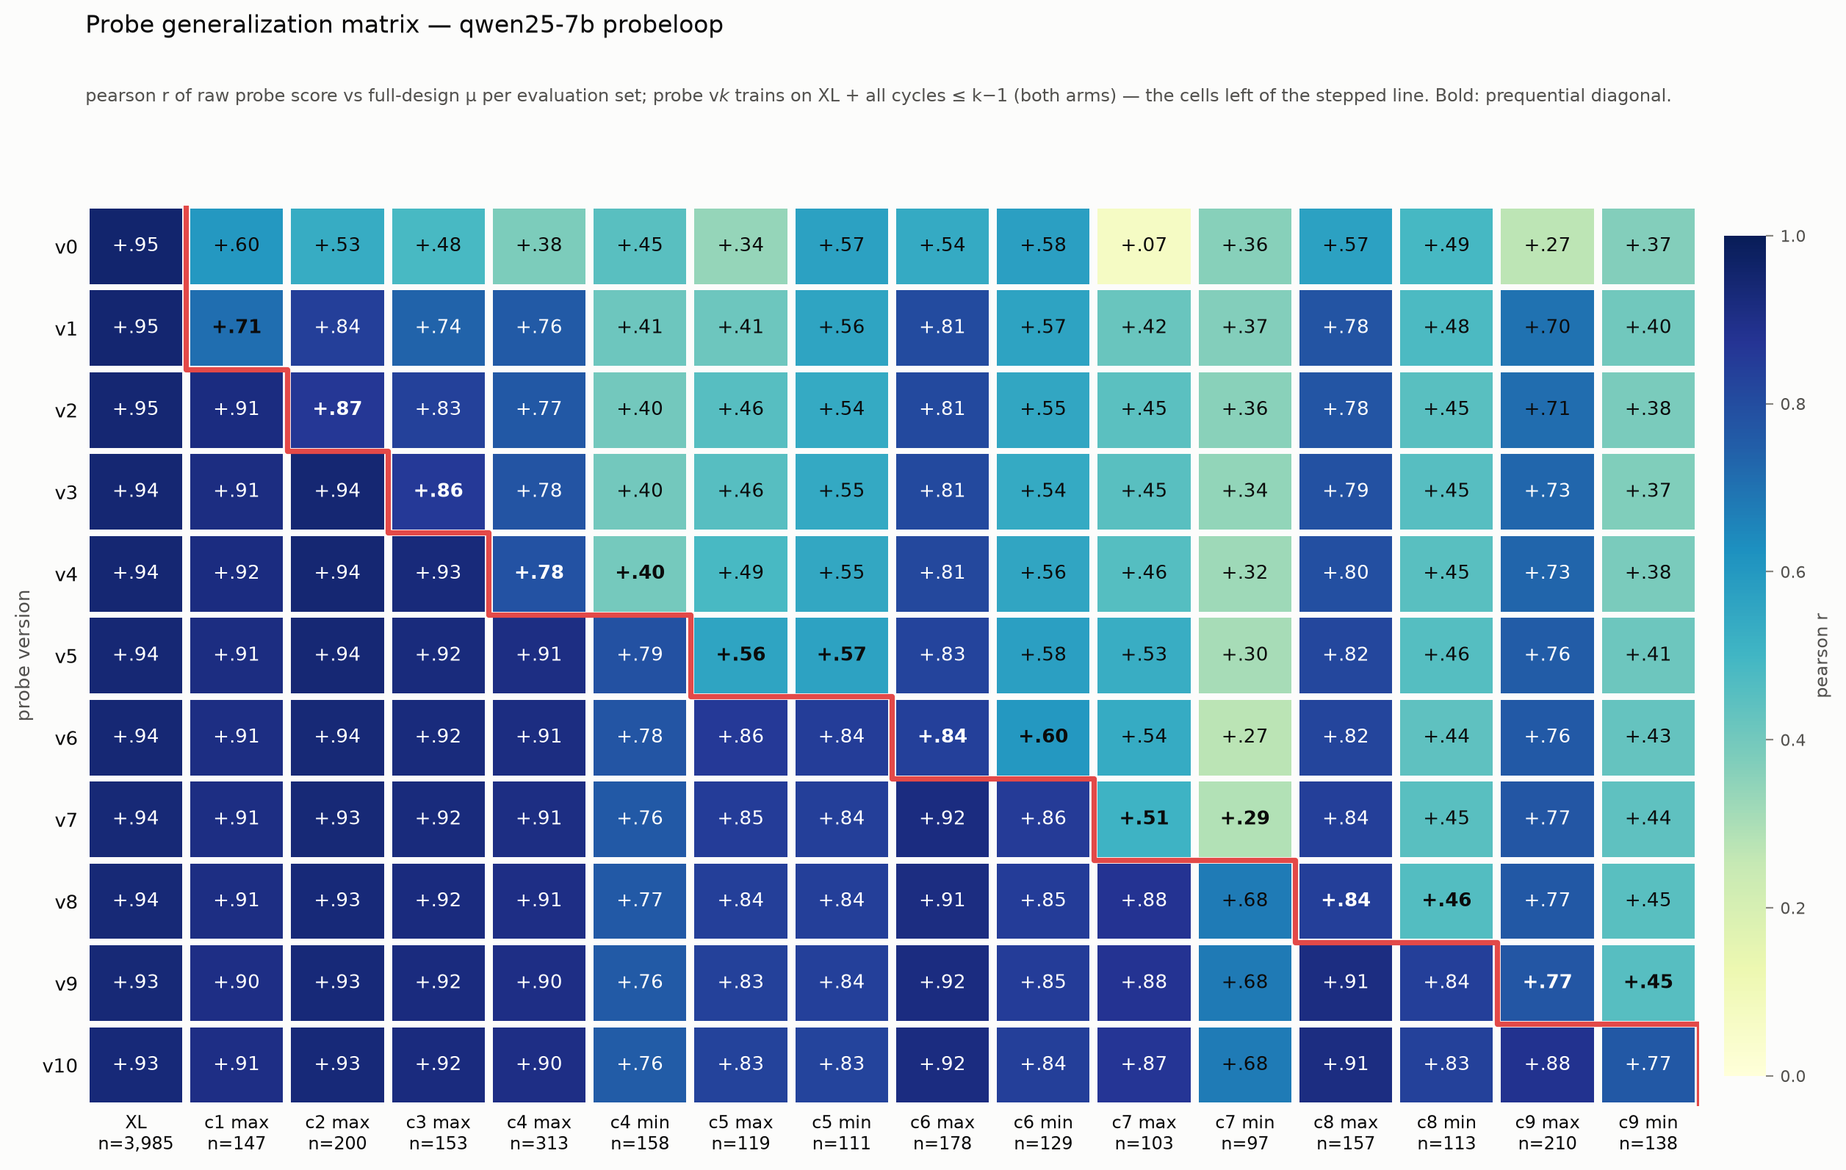
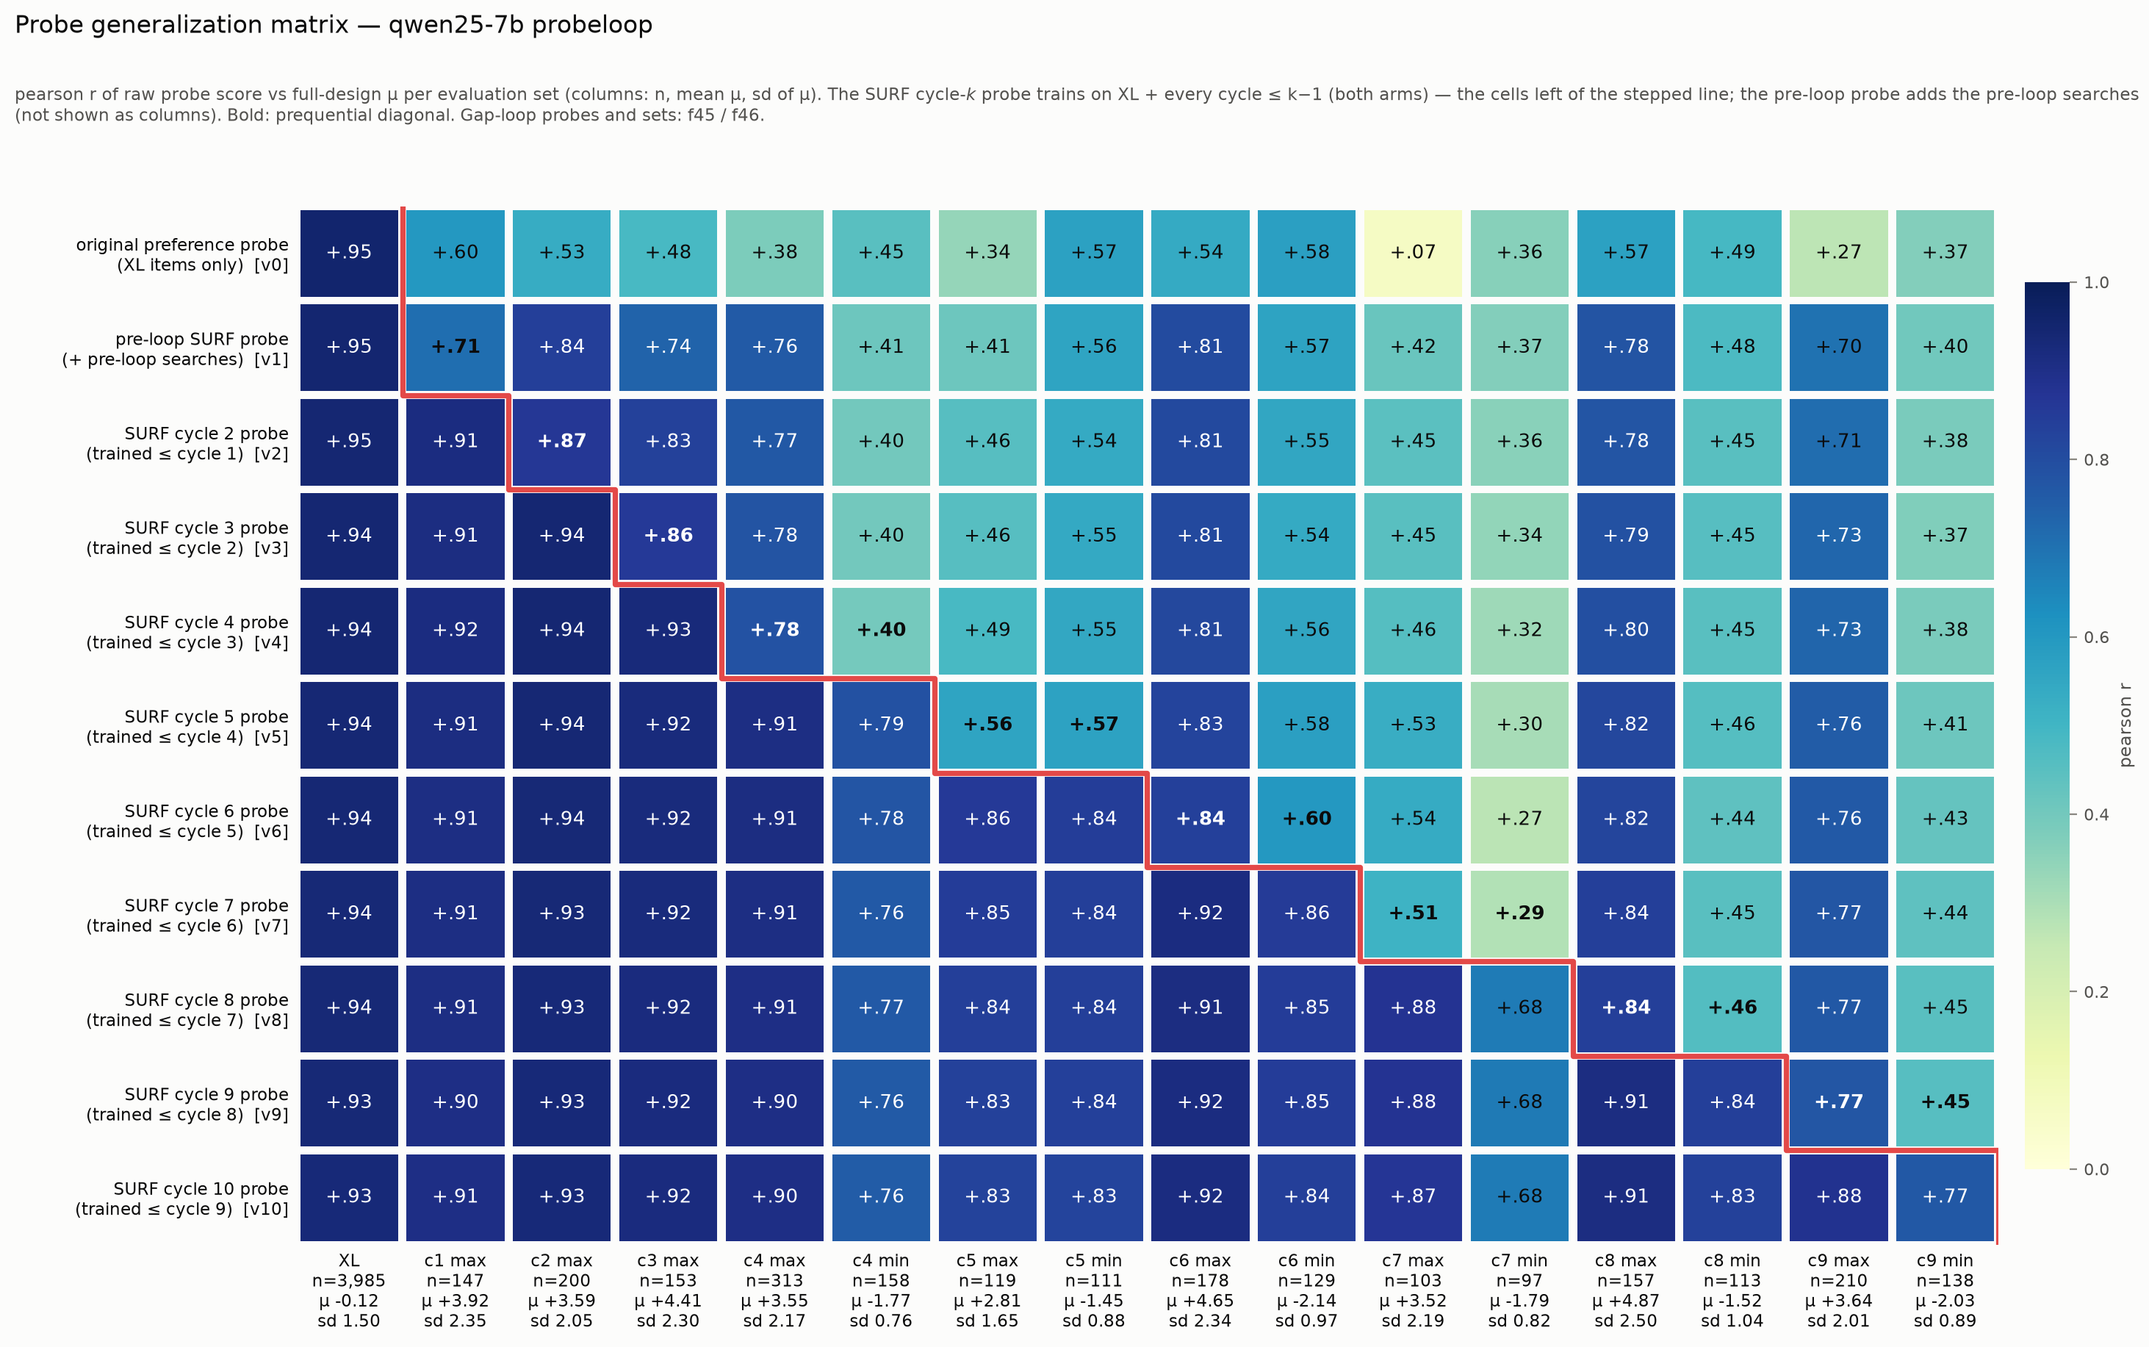
P1 figures: probe names (original / pre-loop / cycle-k / gap-k), n-mean-sd column labels; f40-f42 capped at hardening probes; f45/f46 add gap loop on layered mu; gaploop: referee rho guard
Claude-Session: https://claude.ai/code/session_0197TwgTZoAVvan8PdMtrSa9

diff --git a/p1/figures.py b/p1/figures.py
@@ -357,7 +357,8 @@ def main():
               f32_size_density, f33_size_structure, f34_surf_confirm,
               f35_xl_plus_surf, f36_swap_chosen, f37_effort_panels,
               f40_probe_matrix, f41_probe_matrix_pooled, f42_probe_arm_vs_pooled,
-              f43_anchor_ladder, f44_gap_matrix):
+              f43_anchor_ladder, f44_gap_matrix, f45_probe_matrix_with_gap,
+              f46_probe_matrix_pooled_with_gap):
         f()
     if not args.core_only:
         for m in MODELS:
@@ -1454,14 +1455,37 @@ def f35_xl_plus_surf():
     save(fig, FIG / "f35_xl_plus_surf.png")
 
 
+def probe_label(v, short=False):
+    """Human-readable probe names. v0 = the original preference probe (XL only);
+    v1 = retrained on the pre-loop SURF discoveries (stated-preference, probe and
+    revealed-preference searches); v2..v10 = probe used in SURF hardening cycle v,
+    trained on cycles <= v-1; v11+ = gap-loop probes (trained on gap cycles <= v-11)."""
+    if v == 0:
+        return "original probe" if short else "original preference probe\n(XL items only)"
+    if v == 1:
+        return "pre-loop SURF probe" if short else "pre-loop SURF probe\n(+ pre-loop searches)"
+    if v <= 10:
+        return f"cycle {v} probe" if short else f"SURF cycle {v} probe\n(trained \u2264 cycle {v - 1})"
+    k = v - 10
+    return f"gap cycle {k} probe" if short else f"gap cycle {k} probe\n(trained \u2264 gap {k - 1})"
+
+
 def _probeloop_cycle(tag):
-    """'c10 max' / 'c4 max+min' -> 10 / 4 (XL has no cycle)."""
+    """'c10 max' / 'c4 max+min' -> 10 / 4; 'gap2 over' -> 12 (gap cycle k is the
+    (10+k)-th training increment). XL has no cycle."""
+    if tag.startswith("gap"):
+        return PROBELOOP_MAX_V + int(tag[3:].split()[0])
     return int(tag[1:].split()[0])
 
 
-def _probeloop_sets(m="qwen25-7b"):
-    """-> (n_cycles, [(tag, acts, mu)]) : XL then every cycle's max / min
-    discovery set that exists; acts are the [3, N, dim] working-layer caches."""
+PROBELOOP_MAX_V = 10   # last probe-hardening probe; v11+ are gap-loop probes (scripts/surf_gaploop.py)
+
+
+def _probeloop_sets(m="qwen25-7b", max_v=PROBELOOP_MAX_V, include_gap=False, layered=False):
+    """-> (n_probes, [(tag, acts, mu)]) : XL then every hardening cycle's max / min
+    discovery set (and, with include_gap, every gap cycle's over / under set);
+    layered overlays the layered-anchor re-measurement on hardening-cycle mu.
+    max_v=None: every probe_v*.pt present."""
     sys.path.insert(0, str(P1 / "scripts"))
     from surf_probeloop import out_dir, _ds_acts
     import torch
@@ -1470,24 +1494,39 @@ def _probeloop_sets(m="qwen25-7b"):
     sets = [("XL", torch.load(P1 / "results" / "stage1x" / m / "acts_xl.pt",
                               weights_only=False).float(),
              np.array([r["mu"] for r in xl_rows]))]
-    n_cycles = max(int(m_.group(1)) for f in d.glob("probe_v*.pt")
-                   for m_ in [re.match(r"probe_v(\d+)\.pt", f.name)] if m_)
-    for k in range(1, n_cycles + 1):
+    n_all = max(int(m_.group(1)) for f in d.glob("probe_v*.pt")
+                for m_ in [re.match(r"probe_v(\d+)\.pt", f.name)] if m_)
+    n_probes = n_all if max_v is None else min(max_v, n_all)
+    over = {}
+    if layered and (d / "remeasure_layered.jsonl").exists():
+        for line in (d / "remeasure_layered.jsonl").read_text().splitlines():
+            if line.strip():
+                r = json.loads(line)
+                over[r["text"].lower()] = r["mu_layered"]
+    for k in range(1, min(n_probes, PROBELOOP_MAX_V) + 1):
         for sfx, tag in (("", f"c{k} max"), ("_min", f"c{k} min")):
             f = d / f"discoveries_plc{k}{sfx}.json"
             if f.exists():
                 rows = load_json(f)
                 acts = _ds_acts(m, rows, d / f"acts_plc{k}{sfx}.pt")
-                sets.append((tag, acts, np.array([r["mu"] for r in rows])))
-    return n_cycles, sets
+                sets.append((tag, acts, np.array([over.get(r["text"].lower(), r["mu"]) for r in rows])))
+    if include_gap:
+        for k in range(1, n_all - PROBELOOP_MAX_V + 2):
+            for arm in ("over", "under"):
+                f = d / f"discoveries_gpl{k}_{arm}.json"
+                if f.exists():
+                    rows = load_json(f)
+                    acts = _ds_acts(m, rows, d / f"acts_gpl{k}_{arm}.pt")
+                    sets.append((f"gap{k} {arm}", acts, np.array([r["mu"] for r in rows])))
+    return n_probes, sets
 
 
-def _probeloop_matrix(sets=None, m="qwen25-7b"):
+def _probeloop_matrix(sets=None, m="qwen25-7b", max_v=PROBELOOP_MAX_V, **kw):
     """pearson r of every probe v0..v_n on every set -> (sets, n_v, M[n_v, n_sets])."""
-    n_cycles, base = _probeloop_sets(m)
+    n_probes, base = _probeloop_sets(m, max_v=max_v, **kw)
     from surf_probeloop import _load_probe, apply_probe
     sets = base if sets is None else sets
-    n_v = n_cycles + 1
+    n_v = n_probes + 1
     M = np.zeros((n_v, len(sets)))
     for v in range(n_v):
         pr = _load_probe(m, v)
@@ -1522,12 +1561,26 @@ def _probe_matrix_axes(ax, sets, n_v, M, cyc, cmap, fontsize):
     ax.set_xticks([j + .5 for j in range(len(tags))])
     ax.set_xticklabels([f"{t}\nn={len(mu):,}" for t, _, mu in sets], fontsize=8.6, color=INK)
     ax.set_yticks([i + .5 for i in range(n_v)])
-    ax.set_yticklabels([f"v{v}" for v in range(n_v)], fontsize=9.5, color=INK)
+    ax.set_yticklabels([f"v{v}  {probe_label(v)}" if False else probe_label(v) + f"  [v{v}]"
+                        for v in range(n_v)], fontsize=8.2, color=INK)
     ax.tick_params(length=0)
     for sp in ax.spines.values():
         sp.set_visible(False)
-    ax.set_ylabel("probe version", fontsize=9.5, color=INK2)
     return tags
+
+
+def f45_probe_matrix_with_gap():
+    """f40 extended with the gap-loop probes (rows) and gap-cycle discovery sets
+    (columns, over / under arms); hardening-cycle columns use the layered-anchor
+    re-measurement where available so every column is on one scale."""
+    _probe_matrix_figure(max_v=None, include_gap=True, layered=True, path="f45_probe_matrix_with_gap.png",
+                         title="Probe generalization matrix incl. gap loop \u2014 qwen25-7b (layered \u03bc)")
+
+
+def f46_probe_matrix_pooled_with_gap():
+    """f41 extended with the gap-loop probes and the gap cycles pooled (over+under)."""
+    _pooled_matrix_figure(max_v=None, include_gap=True, layered=True, path="f46_probe_matrix_pooled_with_gap.png",
+                          title="Pooled probe generalization matrix incl. gap loop \u2014 qwen25-7b (layered \u03bc)")
 
 
 def f40_probe_matrix():
@@ -1538,44 +1591,55 @@ def f40_probe_matrix():
     prequential diagonal (each probe on the discoveries searched against it).
     Needs the acts_plc*.pt caches (gitignored); _ds_acts recomputes them on a
     device if absent."""
-    sets, n_v, M = _probeloop_matrix()
+    _probe_matrix_figure()
+
+
+def _probe_matrix_figure(max_v=PROBELOOP_MAX_V, include_gap=False, layered=False, path="f40_probe_matrix.png",
+                         title="Probe generalization matrix \u2014 qwen25-7b probeloop"):
+    sets, n_v, M = _probeloop_matrix(max_v=max_v, include_gap=include_gap, layered=layered)
     tags = [t for t, _, _ in sets]
     cyc = _probeloop_cycle
-    n_trained = [1 + sum(cyc(t) <= v - 1 for t in tags[1:]) for v in range(n_v)]
 
     cmap = plt.get_cmap("YlGnBu")  # multi-hue sequential: spreads the .4-.9 mid-range
-    fig, ax = plt.subplots(figsize=(0.7 * len(sets) + 1.1, 0.6 * n_v + 1.8))
+    fig, ax = plt.subplots(figsize=(0.72 * len(sets) + 3.2, 0.68 * n_v + 2.2))
     _probe_matrix_axes(ax, sets, n_v, M, cyc, cmap, 8.6 if len(sets) > 16 else 9.3)
-    fig.suptitle("Probe generalization matrix \u2014 qwen25-7b probeloop", x=0.06,
-                 y=0.975, ha="left", fontsize=12, color=INK)
-    fig.text(0.06, 0.915, "pearson r of raw probe score vs full-design \u03bc per evaluation set; "
-             "probe v$k$ trains on XL + all cycles \u2264 k\u22121 (both arms) \u2014 the cells left of the stepped line. "
-             "Bold: prequential diagonal.", fontsize=8.6, color=INK2, va="top")
+    ax.set_xticklabels([f"{t}\nn={len(mu):,}\n\u03bc {mu.mean():+.2f}\nsd {mu.std():.2f}"
+                        for t, _, mu in sets], fontsize=8.2, color=INK)
+    fig.suptitle(title, x=0.04, y=0.975, ha="left", fontsize=12, color=INK)
+    fig.text(0.04, 0.925, "pearson r of raw probe score vs full-design \u03bc per evaluation set (columns: n, mean \u03bc, sd of \u03bc). "
+             "The SURF cycle-$k$ probe trains on XL + every cycle \u2264 k\u22121 (both arms) \u2014 the cells left of the stepped line; "
+             "the pre-loop probe adds the pre-loop searches (not shown as columns). Bold: prequential diagonal. "
+             + ("Gap-loop probes and sets: f45 / f46." if not include_gap else
+                "Gap-loop rows and columns use layered-anchor \u03bc; hardening-cycle columns are re-measured with the ladder, "
+                "so every column is on one scale."),
+             fontsize=8.4, color=INK2, va="top", wrap=True)
     sm = plt.cm.ScalarMappable(cmap=cmap, norm=plt.Normalize(0, 1))
     cb = fig.colorbar(sm, ax=ax, fraction=0.025, pad=0.015)
     cb.set_label("pearson r", fontsize=8.5, color=INK2)
     cb.ax.tick_params(labelsize=8, labelcolor=INK2)
     cb.outline.set_visible(False)
-    fig.subplots_adjust(top=0.82, bottom=0.09, left=0.06, right=0.99)
-    save(fig, FIG / "f40_probe_matrix.png")
+    fig.subplots_adjust(top=0.84, bottom=0.11, left=0.17, right=0.99)
+    save(fig, FIG / path)
 
 
-def _probeloop_pooled():
-    """-> (per_arm sets, pooled sets, n_v, M_pooled, M_arm): each cycle's max and
-    min discoveries concatenated into one evaluation set (cycles 1-3: max only)."""
+def _probeloop_pooled(max_v=PROBELOOP_MAX_V, include_gap=False, layered=False):
+    """-> (per_arm sets, pooled sets, n_v, M_pooled, M_arm): each cycle's arms
+    concatenated into one evaluation set (cycles 1-3: max only)."""
     import torch
-    n_cycles, per_arm = _probeloop_sets()
+    n_cycles, per_arm = _probeloop_sets(max_v=max_v, include_gap=include_gap, layered=layered)
     by_cycle = {}
     for t, acts, mu in per_arm[1:]:
         by_cycle.setdefault(_probeloop_cycle(t), {})[t.split()[1]] = (acts, mu)
     pooled = [per_arm[0]]
     for k in sorted(by_cycle):
         arms = by_cycle[k]
-        acts = torch.cat([arms[a][0] for a in ("max", "min") if a in arms], dim=1)
-        mu = np.concatenate([arms[a][1] for a in ("max", "min") if a in arms])
-        pooled.append((f"c{k} " + "+".join(a for a in ("max", "min") if a in arms), acts, mu))
-    sets, n_v, M = _probeloop_matrix(pooled)
-    _, _, M_arm = _probeloop_matrix(per_arm)
+        order = ("max", "min", "over", "under")
+        acts = torch.cat([arms[a][0] for a in order if a in arms], dim=1)
+        mu = np.concatenate([arms[a][1] for a in order if a in arms])
+        name = f"gap{k - PROBELOOP_MAX_V} " if k > PROBELOOP_MAX_V else f"c{k} "
+        pooled.append((name + "+".join(a for a in order if a in arms), acts, mu))
+    sets, n_v, M = _probeloop_matrix(pooled, max_v=max_v)
+    _, _, M_arm = _probeloop_matrix(per_arm, max_v=max_v)
     return per_arm, sets, n_v, M, M_arm
 
 
@@ -1585,25 +1649,29 @@ def f41_probe_matrix_pooled():
     vs max ~2.0-2.5), so per-arm cells understate the probe on the low end;
     pooling restores a two-sided spread. Cycles 1-3 have a max arm only (the
     min direction was added at cycle 4)."""
-    _, sets, n_v, M, _ = _probeloop_pooled()
+    _pooled_matrix_figure()
+
+
+def _pooled_matrix_figure(max_v=PROBELOOP_MAX_V, include_gap=False, layered=False, path="f41_probe_matrix_pooled.png",
+                          title="Probe generalization matrix, max+min pooled per cycle \u2014 qwen25-7b probeloop"):
+    _, sets, n_v, M, _ = _probeloop_pooled(max_v=max_v, include_gap=include_gap, layered=layered)
     cmap = plt.get_cmap("YlGnBu")
-    fig, ax = plt.subplots(figsize=(0.95 * len(sets) + 1.6, 0.6 * n_v + 2.0))
+    fig, ax = plt.subplots(figsize=(0.95 * len(sets) + 3.4, 0.68 * n_v + 2.2))
     _probe_matrix_axes(ax, sets, n_v, M, _probeloop_cycle, cmap, 9.3)
-    ax.set_xticklabels([f"{t}\nn={len(mu):,}\nsd={mu.std():.2f}" for t, _, mu in sets],
-                       fontsize=8.4, color=INK)
+    ax.set_xticklabels([f"{t}\nn={len(mu):,}\n\u03bc {mu.mean():+.2f}\nsd {mu.std():.2f}" for t, _, mu in sets],
+                       fontsize=8.2, color=INK)
     sm = plt.cm.ScalarMappable(cmap=cmap, norm=plt.Normalize(0, 1))
     cb = fig.colorbar(sm, ax=ax, fraction=0.025, pad=0.015)
     cb.set_label("pearson r", fontsize=8.5, color=INK2)
     cb.ax.tick_params(labelsize=8, labelcolor=INK2)
     cb.outline.set_visible(False)
-    fig.suptitle("Probe generalization matrix, max+min pooled per cycle \u2014 qwen25-7b probeloop",
-                 x=0.06, y=0.975, ha="left", fontsize=12, color=INK)
+    fig.suptitle(title, x=0.06, y=0.975, ha="left", fontsize=12, color=INK)
     fig.text(0.06, 0.915, "pearson r of raw probe score vs full-design \u03bc on each cycle's max and min "
              "discoveries pooled (sd = pooled \u03bc spread; cycles 1\u20133 have no min arm). "
              "Cells left of the stepped line are in the probe's training data. Bold: prequential diagonal.",
              fontsize=8.6, color=INK2, va="top")
-    fig.subplots_adjust(top=0.82, bottom=0.11, left=0.06, right=0.99)
-    save(fig, FIG / "f41_probe_matrix_pooled.png")
+    fig.subplots_adjust(top=0.82, bottom=0.13, left=0.17, right=0.99)
+    save(fig, FIG / path)
 
 
 def f43_anchor_ladder():
@@ -1760,8 +1828,9 @@ def f44_gap_matrix():
     ax.plot(xs, ys, color=NEG, linewidth=2.6, zorder=4, solid_capstyle="round")
     ax.set_xlim(0, len(sets)); ax.set_ylim(len(vs), 0)
     ax.set_xticks([j + .5 for j in range(len(sets))])
-    ax.set_xticklabels([f"{t}\nn={len(mu)}" for t, _, mu, _ in sets], fontsize=8.6, color=INK)
-    ax.set_yticks([i + .5 for i in range(len(vs))]); ax.set_yticklabels([f"v{v}" for v in vs], fontsize=9.5, color=INK)
+    ax.set_xticklabels([f"{t}\nn={len(mu)}\n\u03bc {mu.mean():+.2f} sd {mu.std():.2f}" for t, _, mu, _ in sets], fontsize=8.2, color=INK)
+    ax.set_yticks([i + .5 for i in range(len(vs))])
+    ax.set_yticklabels([probe_label(v, short=True) + f" [v{v}]" for v in vs], fontsize=8.6, color=INK)
     ax.tick_params(length=0)
     for sp in ax.spines.values():
         sp.set_visible(False)
@@ -1791,9 +1860,9 @@ def f44_gap_matrix():
         ax2.bar(x - w / 2, [r[2] or 0 for r in rows], width=w, color=MUTED, label="probe searched against (prequential)", zorder=2)
         ax2.bar(x + w / 2, [r[3] or 0 for r in rows], width=w, color=INK, label="next probe (after refit)", zorder=2)
         for xi, r in zip(x, rows):
-            if r[4] is not None:
-                ax2.text(xi, ax2.get_ylim()[0] if False else min(r[2] or 0, r[3] or 0, 0) - .08,
-                         f"referee \u03c1: probe {r[4]:+.2f} / \u03bc {r[5]:+.2f}", ha="center", va="top", fontsize=6.8, color=INK2)
+            fmt = lambda v: "n/a" if v is None else f"{v:+.2f}"
+            ax2.text(xi, min(r[2] or 0, r[3] or 0, 0) - .08, f"referee \u03c1: probe {fmt(r[4])} / \u03bc {fmt(r[5])}",
+                     ha="center", va="top", fontsize=6.8, color=INK2)
         ax2.axhline(0, color=GRID, lw=.8)
         ax2.set_xticks(x); ax2.set_xticklabels([f"gap{r[0]}\n{r[1]}" for r in rows], fontsize=8.6, color=INK)
         ax2.set_ylabel("signed mean gap (calibrated probe \u2212 \u03bc)", fontsize=9, color=INK2)
@@ -1806,7 +1875,7 @@ def f44_gap_matrix():
     fig.suptitle("Gap loop \u2014 qwen25-7b: calibrated-probe vs \u03bc disagreement, before and after retraining", x=0.04, y=0.985, ha="left", fontsize=12, color=INK)
     fig.text(0.04, 0.93, "Fitness = z-scored signed gap (over: probe > \u03bc; under: probe < \u03bc), layered Tier-2 \u03bc. Left of the stepped line the probe trained on the set. "
              "Right: the searched-against probe's mean gap on its own discoveries vs the probe fitted on them.", fontsize=8.4, color=INK2, va="top", wrap=True)
-    fig.subplots_adjust(top=0.80, bottom=0.14, left=0.05, right=0.99)
+    fig.subplots_adjust(top=0.80, bottom=0.16, left=0.09, right=0.99)
     save(fig, FIG / "f44_gap_matrix.png")
 
 
@@ -1835,7 +1904,7 @@ def f42_probe_arm_vs_pooled():
                     fontsize=7.6, color=INK2)
             ax.text(xi, -.03, f"sd\n{sd:.1f}", ha="center", va="top", fontsize=6.8, color=INK2)
     ax.set_xticks(x)
-    ax.set_xticklabels([f"cycle {k}  \u00b7  probe v{k}" for k in ks], fontsize=9, color=INK)
+    ax.set_xticklabels([f"cycle {k} discoveries\n{probe_label(k, short=True)} [v{k}]" for k in ks], fontsize=8.6, color=INK)
     ax.tick_params(axis="x", length=0, pad=26)
     ax.set_ylim(0, 1.02); ax.set_yticks([0, .25, .5, .75, 1.0])
     ax.tick_params(axis="y", labelsize=8, colors=INK2, length=0)

diff --git a/p1/scripts/surf_gaploop.py b/p1/scripts/surf_gaploop.py
@@ -181,8 +181,10 @@ def cmd_eval(model, k, arm, n_rolls=12):
                         "probe_cal": round(float(pc_cur[i]), 3), "mu": round(float(mu[i]), 3),
                         "rung": int(rung[i])} for i, c in zip(top, rates)]
     row["t3_top20_mean"] = round(float(np.mean(rates)), 3)
-    row["t3_rate_vs_probe"] = round(spearman(list(rates), [float(pc_cur[i]) for i in top]), 3)
-    row["t3_rate_vs_mu"] = round(spearman(list(rates), [float(mu[i]) for i in top]), 3)
+    def _rho(a, b):  # constant rates (e.g. nothing ever chosen) -> undefined
+        return round(spearman(list(a), list(b)), 3) if len(set(a)) > 1 and len(set(b)) > 1 else None
+    row["t3_rate_vs_probe"] = _rho(rates, [float(pc_cur[i]) for i in top])
+    row["t3_rate_vs_mu"] = _rho(rates, [float(mu[i]) for i in top])
 
     cpath = d / f"gap_cycles_{arm}.json"
     cycles = load_json(cpath) if cpath.exists() else []
@@ -203,8 +205,8 @@ def write_summary(model):
         for c in load_json(cpath):
             lines.append(f"[{arm}] cycle {c['cycle']} (searched v{c['probe_searched']}): "
                          f"n_new={c['n_new']} rungs={c['rung_counts']} | referee top20 rate "
-                         f"{c['t3_top20_mean']}, rho(rate,probe)={c['t3_rate_vs_probe']:+.2f} "
-                         f"rho(rate,mu)={c['t3_rate_vs_mu']:+.2f}")
+                         f"{c['t3_top20_mean']}, rho(rate,probe)={c['t3_rate_vs_probe']} "
+                         f"rho(rate,mu)={c['t3_rate_vs_mu']}")
             for vname, rep in c["per_probe"].items():
                 f, cm, s, e = rep["vs_mu_full"], rep["vs_mu_comp"], rep["in_span"], rep["escalated"]
                 fmt = lambda r: (f"gap {r['gap_mean']:+.2f} |gap| {r['abs_gap_mean']:.2f} r {r['pearson']:+.2f}"
